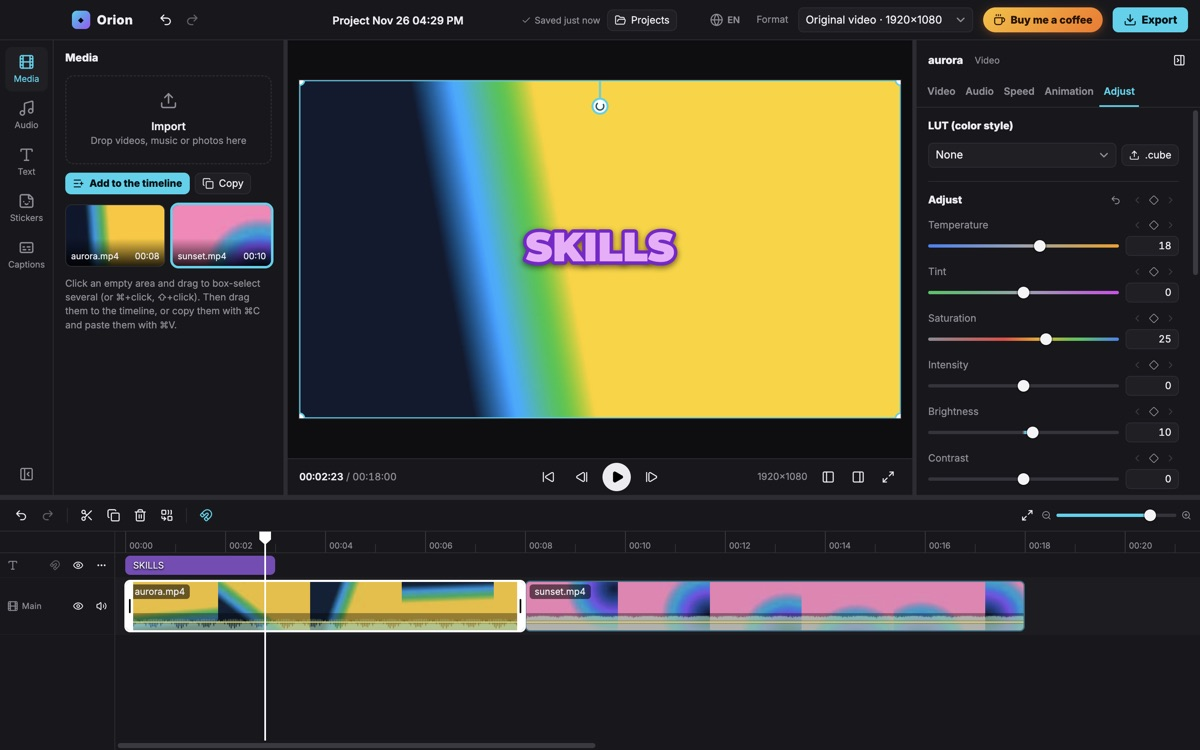
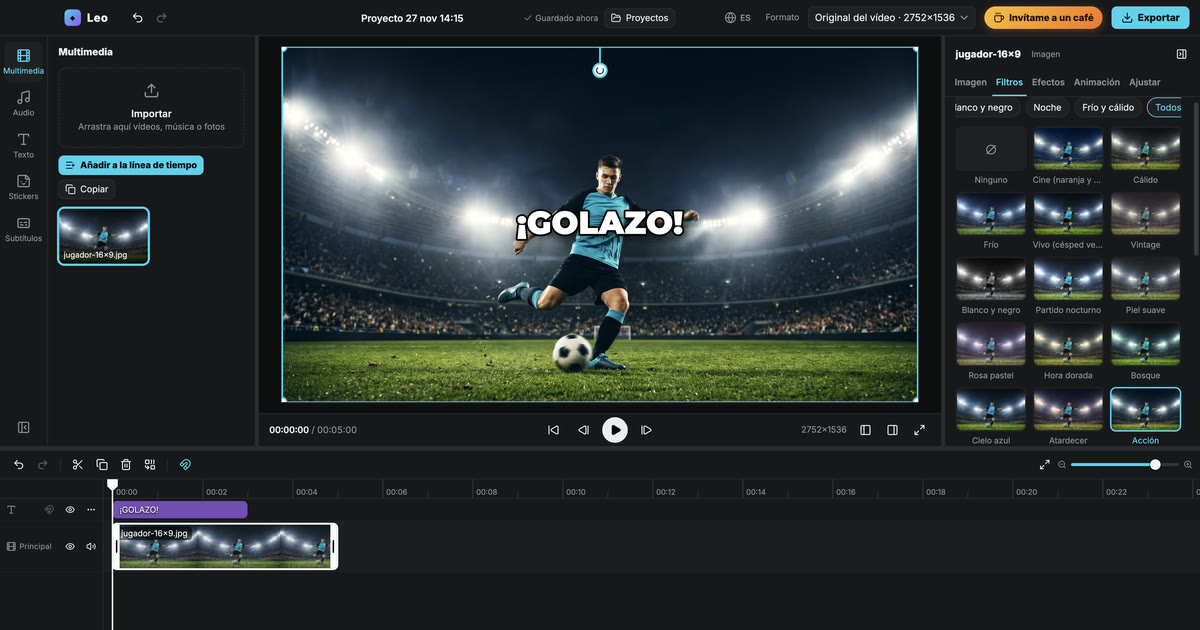
Site: screenshot and share image show the Leo name; promo screenshots named leo-*

diff --git a/website/index.html b/website/index.html
@@ -158,7 +158,7 @@
         </a>
       </div>
       <p class="small muted" data-i="hero.systems">macOS · Windows · Linux · Android · Chrome &amp; Edge</p>
-      <div class="shot"><img src="screenshot.jpg" width="2000" height="1250" alt="Leo video editor" /></div>
+      <div class="shot"><img src="screenshot.jpg" width="2000" height="1125" alt="Leo video editor" /></div>
     </div>
   </header>
 
